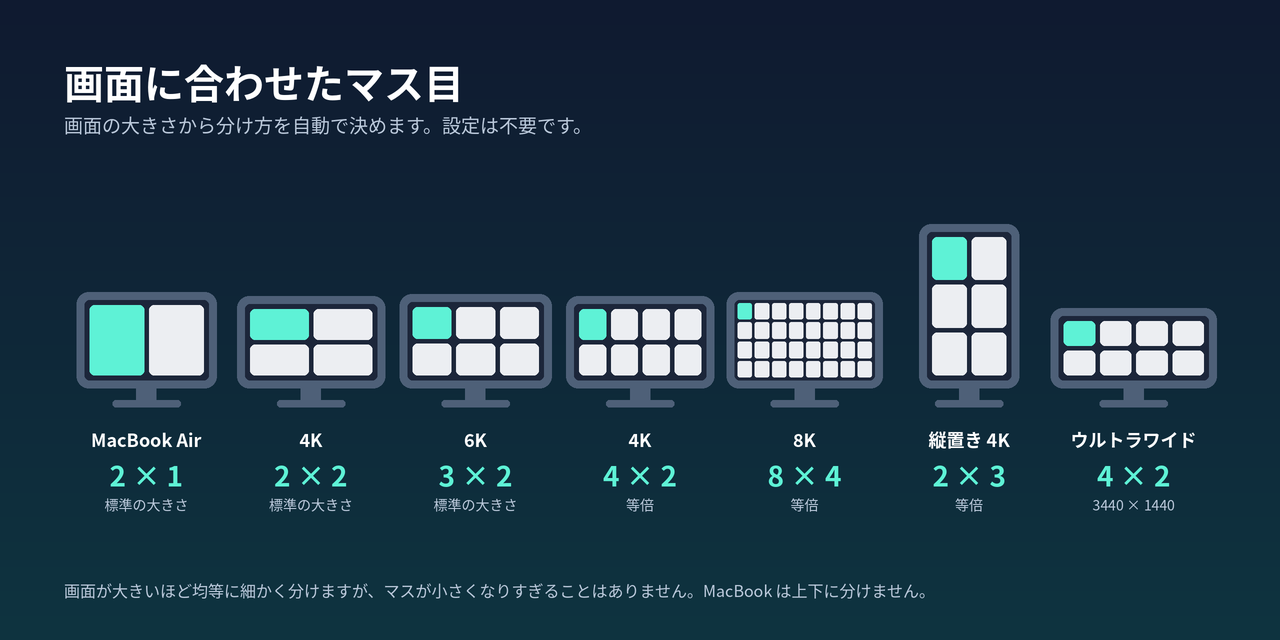
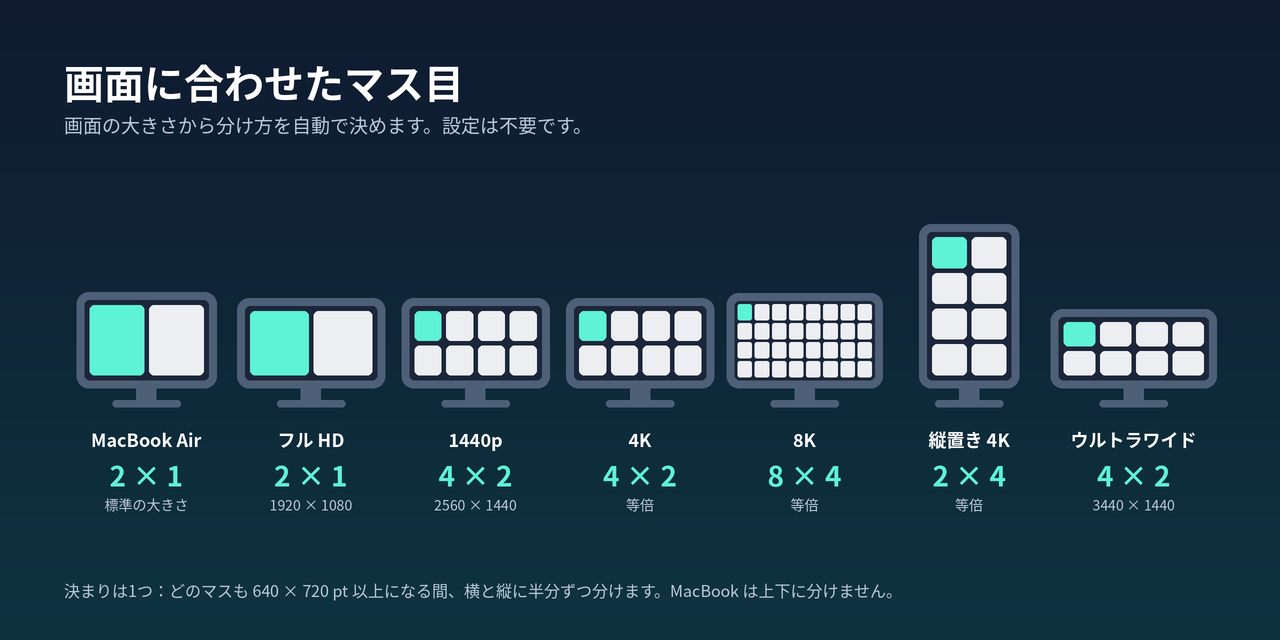
grid: one rule (B) — halve across and down while zones stay at least 640 × 720 pt of the whole screen (columns 1/2/4/8, rows 1/2/4); 3008-pt-wide displays are 4 × 2; README tables, layout art, design notes and changelogs (EN/JA)

diff --git a/Tests/KradoCoreTests/GridPhilosophyTests.swift b/Tests/KradoCoreTests/GridPhilosophyTests.swift
@@ -2,43 +2,71 @@ import CoreGraphics
 import Testing
 @testable import KradoCore
 
-/// README promise: zones are never too small; a typical 4K display tops out at 4 columns;
-/// a MacBook Air's built-in screen is never split top/bottom (at its default size).
+/// Grid constraints, checked against one rule with no special cases:
+/// MacBook Air built-in is never split top/bottom; a 3:2 display at 3008 × 2005 is 4 × 2;
+/// typical-width 4K tops out at 4 columns; zones are never tiny or absurdly tall and thin.
+/// The rule reads the whole screen size, so the menu bar and Dock cannot flip the grid.
 struct GridPhilosophyTests {
+    struct Display: Sendable, CustomStringConvertible {
+        let name: String
+        let width: CGFloat
+        let height: CGFloat
+        let columns: Int
+        let rows: Int
+        var description: String { name }
+    }
+
+    static let displays: [Display] = [
+        Display(name: "MacBook Air 13", width: 1470, height: 956, columns: 2, rows: 1),
+        Display(name: "MacBook Air 13 larger text", width: 1280, height: 832, columns: 2, rows: 1),
+        Display(name: "MacBook Air 15", width: 1710, height: 1112, columns: 2, rows: 1),
+        Display(name: "4K default 1920", width: 1920, height: 1080, columns: 2, rows: 1),
+        Display(name: "2560 × 1440", width: 2560, height: 1440, columns: 4, rows: 2),
+        Display(name: "4K native", width: 3840, height: 2160, columns: 4, rows: 2),
+        Display(name: "5K native", width: 5120, height: 2880, columns: 8, rows: 4),
+        Display(name: "6K default", width: 3008, height: 1692, columns: 4, rows: 2),
+        Display(name: "6K native", width: 6016, height: 3384, columns: 8, rows: 4),
+        Display(name: "3:2 2256", width: 2256, height: 1504, columns: 2, rows: 2),
+        Display(name: "3:2 2560", width: 2560, height: 1707, columns: 4, rows: 2),
+        Display(name: "3:2 3008", width: 3008, height: 2005, columns: 4, rows: 2),
+        Display(name: "3:2 3840", width: 3840, height: 2560, columns: 4, rows: 2),
+        Display(name: "Portrait 4K", width: 1080, height: 1920, columns: 1, rows: 2),
+        Display(name: "Portrait 4K native", width: 2160, height: 3840, columns: 2, rows: 4),
+        Display(name: "Ultrawide 3440", width: 3440, height: 1440, columns: 4, rows: 2),
+        Display(name: "Ultrawide 5120", width: 5120, height: 2160, columns: 8, rows: 2),
+        Display(name: "8K", width: 7680, height: 4320, columns: 8, rows: 4),
+    ]
+
     private func layout(_ w: CGFloat, _ h: CGFloat) -> GridLayout {
         GridPolicy.layout(for: ScreenDescriptor(isBuiltin: false, visibleSize: CGSize(width: w, height: h), name: ""))
     }
 
-    @Test func macBookAirIsNotSplitTopAndBottom() {
-        #expect(layout(1470, 919).rows == 1)   // 13" default, menu bar subtracted
-        #expect(layout(1710, 1079).rows == 1)  // 15" default / 13" "More Space"
+    @Test("Display table", arguments: displays)
+    func table(display: Display) {
+        #expect(layout(display.width, display.height) == GridLayout(columns: display.columns, rows: display.rows))
+        // Built-in or external makes no difference: one rule for every screen.
+        #expect(GridPolicy.layout(for: ScreenDescriptor(isBuiltin: true, visibleSize: CGSize(width: display.width, height: display.height), name: "x"))
+            == GridLayout(columns: display.columns, rows: display.rows))
     }
 
-    @Test func fourKTopsOutAtFourColumnsTwoRows() {
-        #expect(layout(1920, 1050) == GridLayout(columns: 2, rows: 2))  // 4K default (looks like 1920×1080)
-        #expect(layout(2560, 1410) == GridLayout(columns: 2, rows: 2))
-        #expect(layout(3840, 2130) == GridLayout(columns: 4, rows: 2))  // 4K at native size
+    @Test func hardConstraints() {
+        #expect(layout(1470, 956).rows == 1)
+        #expect(layout(1280, 832).rows == 1)
+        #expect(layout(1710, 1112).rows == 1)
+        #expect(layout(1920, 1080).columns <= 4)
+        #expect(layout(2560, 1440).columns <= 4)
+        #expect(layout(3840, 2160).columns <= 4)
+        #expect(layout(3008, 2005) == GridLayout(columns: 4, rows: 2))
     }
 
-    @Test func largerScreensGetMoreEvenZones() {
-        #expect(layout(3008, 1667) == GridLayout(columns: 3, rows: 2))  // Pro Display XDR default
-        #expect(layout(5120, 2855) == GridLayout(columns: 5, rows: 2))  // 5K native
-        #expect(layout(6016, 3359) == GridLayout(columns: 6, rows: 3))  // 6K native
-        #expect(layout(7680, 4295) == GridLayout(columns: 8, rows: 4))  // 8K native
-        #expect(layout(1080, 1890) == GridLayout(columns: 1, rows: 2))  // portrait 4K default
-        #expect(layout(2160, 3810) == GridLayout(columns: 2, rows: 3))  // portrait 4K native
-        #expect(layout(3440, 1410) == GridLayout(columns: 4, rows: 2))  // ultrawide
-        #expect(layout(5120, 1410) == GridLayout(columns: 5, rows: 2))  // super ultrawide
-    }
-
-    @Test func zonesAreNeverTooSmall() {
-        for w in stride(from: CGFloat(400), through: 8000, by: 200) {
-            for h in stride(from: CGFloat(400), through: 8000, by: 200) {
+    @Test func zonesAreNeverTinyOrNeedleThin() {
+        for w in stride(from: CGFloat(800), through: 8000, by: 40) {
+            for h in stride(from: CGFloat(800), through: 8000, by: 40) {
                 let l = layout(w, h)
+                let cw = w / CGFloat(l.columns), ch = h / CGFloat(l.rows)
                 #expect(l.columns <= 8 && l.rows <= 4)
-                // Never too small: every zone stays at least 450 × 450 points.
-                #expect(w / CGFloat(l.columns) >= 450 || l.columns == 1)
-                #expect(h / CGFloat(l.rows) >= 450 || l.rows == 1)
+                #expect(cw >= GridPolicy.minimumCellWidth || l.columns == 1)
+                #expect(ch >= GridPolicy.minimumCellHeight || l.rows == 1)
             }
         }
     }

diff --git a/Tests/KradoCoreTests/PolicyAndCoordinatesTests.swift b/Tests/KradoCoreTests/PolicyAndCoordinatesTests.swift
@@ -6,14 +6,14 @@ import Testing
 @Suite("Display policy and coordinates")
 struct PolicyAndCoordinatesTests {
     @Test("Example display sizes and zone counts", arguments: [
-        PolicyCase(width: 3440, height: 1410, columns: 4, rows: 2),
+        PolicyCase(width: 3440, height: 1410, columns: 4, rows: 1),
         PolicyCase(width: 2560, height: 1050, columns: 4, rows: 1),
-        PolicyCase(width: 3008, height: 1975, columns: 3, rows: 2),
+        PolicyCase(width: 3008, height: 1975, columns: 4, rows: 2),
         PolicyCase(width: 3840, height: 2135, columns: 4, rows: 2),
-        PolicyCase(width: 1920, height: 1055, columns: 2, rows: 2),
-        PolicyCase(width: 2560, height: 1415, columns: 2, rows: 2),
-        PolicyCase(width: 2056, height: 1305, columns: 2, rows: 2),
-        PolicyCase(width: 1800, height: 1137, columns: 2, rows: 2),
+        PolicyCase(width: 1920, height: 1055, columns: 2, rows: 1),
+        PolicyCase(width: 2560, height: 1415, columns: 4, rows: 1),
+        PolicyCase(width: 2056, height: 1305, columns: 2, rows: 1),
+        PolicyCase(width: 1800, height: 1137, columns: 2, rows: 1),
         PolicyCase(width: 1470, height: 924, columns: 2, rows: 1),
         PolicyCase(width: 1280, height: 800, columns: 2, rows: 1),
         PolicyCase(width: 1710, height: 1074, columns: 2, rows: 1),
@@ -26,41 +26,41 @@ struct PolicyAndCoordinatesTests {
     @Test("Ordered policy threshold boundaries", arguments: [
         // Portrait height threshold and orientation precedence (squares are not portrait).
         PolicyCase(width: 800, height: 1199.99, columns: 1, rows: 1),
-        PolicyCase(width: 800, height: 1200, columns: 1, rows: 2),
-        PolicyCase(width: 800, height: 1200.01, columns: 1, rows: 2),
+        PolicyCase(width: 800, height: 1200, columns: 1, rows: 1),
+        PolicyCase(width: 800, height: 1200.01, columns: 1, rows: 1),
         PolicyCase(width: 1800, height: 1800, columns: 2, rows: 2),
         PolicyCase(width: 1800, height: 1800.01, columns: 2, rows: 2),
-        PolicyCase(width: 2800, height: 2800, columns: 3, rows: 2),
-        PolicyCase(width: 2800, height: 2800.01, columns: 3, rows: 2),
-        PolicyCase(width: 3000, height: 4000, columns: 3, rows: 4),
+        PolicyCase(width: 2800, height: 2800, columns: 4, rows: 2),
+        PolicyCase(width: 2800, height: 2800.01, columns: 4, rows: 2),
+        PolicyCase(width: 3000, height: 4000, columns: 4, rows: 4),
         // An ultrawide aspect ratio alone is insufficient below 2400pt wide.
-        PolicyCase(width: 2399.99, height: 1000, columns: 2, rows: 2),
-        PolicyCase(width: 2400, height: 1000, columns: 4, rows: 1),
-        PolicyCase(width: 2400.01, height: 1000, columns: 4, rows: 1),
+        PolicyCase(width: 2399.99, height: 1000, columns: 2, rows: 1),
+        PolicyCase(width: 2400, height: 1000, columns: 2, rows: 1),
+        PolicyCase(width: 2400.01, height: 1000, columns: 2, rows: 1),
         PolicyCase(width: 1000, height: 400, columns: 1, rows: 1),
         // Wide but short screens keep one row so zones never get too short.
         PolicyCase(width: 2200, height: 899.99, columns: 2, rows: 1),
-        PolicyCase(width: 2200, height: 900, columns: 2, rows: 2),
+        PolicyCase(width: 2200, height: 900, columns: 2, rows: 1),
         PolicyCase(width: 2900, height: 899.99, columns: 4, rows: 1),
         // Isolate the aspect-ratio boundary while satisfying the width threshold.
-        PolicyCase(width: 2519.99, height: 1200, columns: 2, rows: 2),
-        PolicyCase(width: 2520, height: 1200, columns: 4, rows: 1),
-        PolicyCase(width: 2520.01, height: 1200, columns: 4, rows: 1),
+        PolicyCase(width: 2519.99, height: 1200, columns: 2, rows: 1),
+        PolicyCase(width: 2520, height: 1200, columns: 2, rows: 1),
+        PolicyCase(width: 2520.01, height: 1200, columns: 2, rows: 1),
         // Ultrawide height controls rows, even above the general large-screen width.
         PolicyCase(width: 3000, height: 1299.99, columns: 4, rows: 1),
-        PolicyCase(width: 3000, height: 1300, columns: 4, rows: 2),
-        PolicyCase(width: 3000, height: 1300.01, columns: 4, rows: 2),
+        PolicyCase(width: 3000, height: 1300, columns: 4, rows: 1),
+        PolicyCase(width: 3000, height: 1300.01, columns: 4, rows: 1),
         PolicyCase(width: 2800, height: 1000, columns: 4, rows: 1),
         // General width boundaries, with non-ultrawide sizes.
-        PolicyCase(width: 2799.99, height: 1600, columns: 3, rows: 2),
-        PolicyCase(width: 2800, height: 1600, columns: 3, rows: 2),
-        PolicyCase(width: 2800.01, height: 1600, columns: 3, rows: 2),
+        PolicyCase(width: 2799.99, height: 1600, columns: 4, rows: 2),
+        PolicyCase(width: 2800, height: 1600, columns: 4, rows: 2),
+        PolicyCase(width: 2800.01, height: 1600, columns: 4, rows: 2),
         PolicyCase(width: 1799.99, height: 1000, columns: 2, rows: 1),
-        PolicyCase(width: 1800, height: 1000, columns: 2, rows: 2),
-        PolicyCase(width: 1800.01, height: 1000, columns: 2, rows: 2),
+        PolicyCase(width: 1800, height: 1000, columns: 2, rows: 1),
+        PolicyCase(width: 1800.01, height: 1000, columns: 2, rows: 1),
         PolicyCase(width: 1199.99, height: 800, columns: 1, rows: 1),
-        PolicyCase(width: 1200, height: 800, columns: 2, rows: 1),
-        PolicyCase(width: 1200.01, height: 800, columns: 2, rows: 1),
+        PolicyCase(width: 1200, height: 800, columns: 1, rows: 1),
+        PolicyCase(width: 1200.01, height: 800, columns: 1, rows: 1),
     ])
     func boundaries(test: PolicyCase) { checkPolicy(test) }
 

diff --git a/Sources/KradoCore/Grid.swift b/Sources/KradoCore/Grid.swift
@@ -32,43 +32,26 @@ public struct ScreenDescriptor: Equatable, Sendable {
     }
 }
 
-/// Zones are as many as fit evenly while each stays comfortably large:
-/// columns = floor(W / 900), rows = floor(H / 1000), never more than 8 × 4.
-/// Any screen at least 1200pt wide gets 2 columns; 2 rows need 900pt height and, in landscape, 1800pt width
-/// (so a MacBook Air is 2 × 1, a 1080p-class screen 2 × 2, 4K at native size 4 × 2, 8K 8 × 4).
-/// Ultrawide screens keep 4 columns and add a second row only from 1300pt tall.
+/// Rule B — one law for every screen: keep halving the screen, across and down,
+/// while each zone stays at least 640 pt wide and 720 pt tall.
+/// columns = the largest of 1, 2, 4, 8 with W / columns ≥ 640; rows = the largest of 1, 2, 4 with H / rows ≥ 720.
+/// W × H is the whole screen (menu bar and Dock included), so showing or hiding them never changes the grid.
 public enum GridPolicy {
-    public static let minimumCellWidth: CGFloat = 900
-    public static let minimumCellHeight: CGFloat = 1000
-    public static let twoColumnMinimumWidth: CGFloat = 1200
-    /// Below this height a top/bottom split would make zones too short (< 450 pt).
-    public static let twoRowMinimumHeight: CGFloat = 900
-    public static let twoRowMinimumWidth: CGFloat = 1800
-    public static let portraitSplitMinimumHeight: CGFloat = 1200
-    public static let ultrawideMinimumAspectRatio: CGFloat = 2.1
-    public static let ultrawideMinimumWidth: CGFloat = 2400
-    public static let ultrawideTwoRowMinimumHeight: CGFloat = 1300
+    public static let minimumCellWidth: CGFloat = 640
+    public static let minimumCellHeight: CGFloat = 720
     public static let maximumColumns = 8
     public static let maximumRows = 4
 
+    /// `screen.visibleSize` carries the whole screen size here (see Overlay), not the visible frame.
     public static func layout(for screen: ScreenDescriptor) -> GridLayout {
         let width = screen.visibleSize.width
         let height = screen.visibleSize.height
         guard width > 0, height > 0 else { return GridLayout(columns: 1, rows: 1) }
-        let fitColumns = Int((width / minimumCellWidth).rounded(.down))
-        let fitRows = Int((height / minimumCellHeight).rounded(.down))
-        let ultrawide = width / height >= ultrawideMinimumAspectRatio && width >= ultrawideMinimumWidth
-        var columns = width >= twoColumnMinimumWidth ? max(2, fitColumns) : 1
-        // Laptop-class landscape screens (narrower than 1800pt) keep one row: halves would be too short to work in.
-        let canSplitRows = height > width
-            ? height >= portraitSplitMinimumHeight
-            : height >= twoRowMinimumHeight && width >= twoRowMinimumWidth
-        var rows = canSplitRows ? max(2, fitRows) : 1
-        if ultrawide {
-            columns = max(4, fitColumns)
-            rows = height >= ultrawideTwoRowMinimumHeight ? max(2, fitRows) : 1
-        }
-        return GridLayout(columns: min(columns, maximumColumns), rows: min(rows, maximumRows))
+        var columns = 1
+        while columns < maximumColumns && width / CGFloat(columns * 2) >= minimumCellWidth { columns *= 2 }
+        var rows = 1
+        while rows < maximumRows && height / CGFloat(rows * 2) >= minimumCellHeight { rows *= 2 }
+        return GridLayout(columns: columns, rows: rows)
     }
 }
 

diff --git a/Sources/Krado/Overlay.swift b/Sources/Krado/Overlay.swift
@@ -75,7 +75,8 @@ final class ScreenGrid {
         name = screen.localizedName
         let descriptor = ScreenDescriptor(
             isBuiltin: CGDisplayIsBuiltin(displayID) != 0,
-            visibleSize: screen.visibleFrame.size, name: screen.localizedName
+            // The grid rule reads the whole screen size so the menu bar and Dock never change it.
+            visibleSize: screen.frame.size, name: screen.localizedName
         )
         geometry = GridGeometry(
             workArea: flipY(screen.visibleFrame, mainScreenHeight: mainScreenHeight),

diff --git a/scripts/readme-art/layouts.py b/scripts/readme-art/layouts.py
@@ -11,13 +11,13 @@ def F(p,s,w=None):
     return f
 TEXT={
  "en":dict(title="A grid that fits each screen", sub="krado picks the split from the screen's size. No setup.",
-   items=[("MacBook Air","2 × 1","Default size"),("4K","2 × 2","Default size"),("6K","3 × 2","Default size"),
-          ("4K","4 × 2","Native size"),("8K","8 × 4","Native size"),("Portrait 4K","2 × 3","Native size"),("Ultrawide","4 × 2","3440 × 1440")],
-   foot="Zones stay at least about 900 × 1000 pt where possible, never tiny. MacBooks are never split top and bottom.", font=(INTER,INTER)),
+   items=[("MacBook Air","2 × 1","Default size"),("Full HD","2 × 1","1920 × 1080"),("1440p","4 × 2","2560 × 1440"),
+          ("4K","4 × 2","Native size"),("8K","8 × 4","Native size"),("Portrait 4K","2 × 4","Native size"),("Ultrawide","4 × 2","3440 × 1440")],
+   foot="One rule: halve across and down while every zone stays at least 640 × 720 pt. MacBooks are never split top and bottom.", font=(INTER,INTER)),
  "ja":dict(title="画面に合わせたマス目", sub="画面の大きさから分け方を自動で決めます。設定は不要です。",
-   items=[("MacBook Air","2 × 1","標準の大きさ"),("4K","2 × 2","標準の大きさ"),("6K","3 × 2","標準の大きさ"),
-          ("4K","4 × 2","等倍"),("8K","8 × 4","等倍"),("縦置き 4K","2 × 3","等倍"),("ウルトラワイド","4 × 2","3440 × 1440")],
-   foot="画面が大きいほど均等に細かく分けますが、マスが小さくなりすぎることはありません。MacBook は上下に分けません。", font=(CJKB,CJK)),
+   items=[("MacBook Air","2 × 1","標準の大きさ"),("フル HD","2 × 1","1920 × 1080"),("1440p","4 × 2","2560 × 1440"),
+          ("4K","4 × 2","等倍"),("8K","8 × 4","等倍"),("縦置き 4K","2 × 4","等倍"),("ウルトラワイド","4 × 2","3440 × 1440")],
+   foot="決まりは1つ：どのマスも 640 × 720 pt 以上になる間、横と縦に半分ずつ分けます。MacBook は上下に分けません。", font=(CJKB,CJK)),
 }
 def rr(d,r,rad,fill,outline=None,width=0): d.rounded_rectangle([v*S for v in r],radius=rad*S,fill=fill,outline=outline,width=width*S)
 for lang,t in TEXT.items():
@@ -27,7 +27,7 @@ for lang,t in TEXT.items():
     bold,reg=t["font"]
     d.text((64*S,52*S),t["title"],font=F(bold,40,700),fill=(255,255,255))
     d.text((64*S,110*S),t["sub"],font=F(reg,19,450),fill=(186,200,218))
-    specs=[(2,1,(124,80)),(2,2,(132,76)),(3,2,(136,78)),(4,2,(132,76)),(8,4,(140,80)),(2,3,(84,148)),(4,2,(150,64))]
+    specs=[(2,1,(124,80)),(2,1,(132,74)),(4,2,(132,74)),(4,2,(132,74)),(8,4,(140,79)),(2,4,(84,148)),(4,2,(150,63))]
     slot=(W-128)/7; base=380
     for i,((c,r,(sw,sh)),(name,grid,ex)) in enumerate(zip(specs,t["items"])):
         cx=64+slot*i+slot/2

diff --git a/docs/design.md b/docs/design.md
@@ -16,27 +16,14 @@ Release bundling passes `-debug-info-format none`: no dSYM is needed for v0.1 di
 
 ## Display policy and geometry
 
-Policy input is `ScreenDescriptor(isBuiltin, visibleSize, name)`; both name and `isBuiltin` are informational. The same policy applies to built-in and external screens. Rules are evaluated in order, using the width **W** and height **H** of `NSScreen.visibleFrame` in **points**, not hardware pixels:
+Policy input is `ScreenDescriptor(isBuiltin, visibleSize, name)`; both name and `isBuiltin` are informational, and the same policy applies to built-in and external screens. `visibleSize` carries the **whole** screen size, `NSScreen.frame`, in **points** (not hardware pixels), so showing or hiding the Dock or menu bar never changes the grid. The zones themselves still fill the visible work area (`NSScreen.visibleFrame`, excluding the Dock and menu bar on any edge).
 
-Columns = floor(W / 900) and rows = floor(H / 1000), capped at 8 × 4, so every zone stays large and the screen is divided evenly:
+One rule, no special cases: keep halving across and down while each zone stays at least 640 pt wide and 720 pt tall.
 
-- W ≥ 1200pt → at least 2 columns; otherwise 1.
-- Two or more rows need, in portrait, H ≥ 1200pt; in landscape, H ≥ 900pt and W ≥ 1800pt (laptop-class screens such as a MacBook Air stay one row).
-- Ultrawide (W/H ≥ 2.1 and W ≥ 2400pt): at least 4 columns; rows only from H ≥ 1300pt.
+- columns = the largest of 1, 2, 4, 8 with W / columns ≥ 640
+- rows = the largest of 1, 2, 4 with H / rows ≥ 720
 
-Examples: MacBook Air 2 × 1, 1080p/1440p-class 2 × 2, 4K at native size 4 × 2, 5K native 5 × 2, 6K native 6 × 3, 8K native 8 × 4, portrait 4K 1 × 2 (native 2 × 3), 3440 × 1440 ultrawide 4 × 2. Constants live in `GridPolicy`.
-
-The aim is to keep zones roughly at least 640pt wide and about 500pt tall so typical app windows fit. Mid-size screens get 2×2 rather than three narrow columns. Small landscape screens get full-height left/right halves. Below about 1200pt, even halves become too narrow, so a single zone fills the visible work area. Portrait screens split only with at least 1200pt of height; ultrawides use two rows only with at least 1300pt. These are sizing heuristics, not enforced minimum dimensions: the 1200pt width threshold permits 600pt halves, and unusual work-area aspect ratios or app size constraints may still produce smaller usable windows.
-
-Examples, all using visible points:
-
-- Large: a 3:2 4K-class display at **3008×1975 → 4×2 = 8 zones**; 3840×2135 also gets 4×2.
-- Ultrawide: 3440×1410 → 4×2; 2560×1050 → 4×1.
-- Mid-size: 1920×1055, 2560×1415, 16-inch MacBook Pro at 2056×1305, and 14-inch MacBook Pro at 1800×1137 → 2×2.
-- Small: a 13-inch MacBook Air at **1470×924 → 2×1 = 2 zones**; 1280×800, 1710×1074, 1512×950, and 1728×1085 also get 2×1.
-- Tiny: 1024×740 → 1×1. Portrait 800×1100 is also unsplit, while 800×1200 gets stacked halves.
-
-A display's nominal hardware resolution does not directly drive policy. All work areas exclude the Dock and menu bar, including a Dock placed on other edges.
+Examples: MacBook Air 13 (1470 × 956) and 15 (1710 × 1112) → 2 × 1; 1280 × 832 → 2 × 1; 1920 × 1080 → 2 × 1; 2560 × 1440 → 4 × 2; 3008 × 1692 and 3008 × 2005 → 4 × 2; 4K native 3840 × 2160 → 4 × 2; 5K, 6K and 8K native → 8 × 4; portrait 1080 × 1920 → 1 × 2, portrait 4K native → 2 × 4; ultrawide 2560 × 1080 → 4 × 1, 3440 × 1440 → 4 × 2, 5120 × 1440 → 8 × 2; narrower than 1280 pt → 1 column. Constants live in `GridPolicy`; `GridPhilosophyTests` holds the display table.
 
 `GridSpan` has nonempty, half-open column and row ranges; row 0 is the top. `GridGeometry` stores absolute x/y edge arrays. Each **internal** edge is independently rounded to the nearest physical pixel with the display's backing scale. The exact outer edges stay fixed to the visible frame. Adjacent cells share the same edges, their dimensions sum to the full work area, and errors do not accumulate. Outer edges provided at a fractional pixel are preserved rather than expanding/shrinking the work area. Spans use those same edges to calculate frames. `KradoDefaults.gap=0`; a nonzero gap insets the resulting span, not each cell inside a combined span.
 

diff --git a/README.ja.md b/README.ja.md
@@ -12,20 +12,21 @@
 
 ## 画面に合わせたマス目
 
-Microsoft PowerToys の FancyZones に着想を得ています。krado はマス目を自動で作り、画面に対して小さすぎるマスにはしません。たとえば一般的な 4K ディスプレイでも横は最大 4 列です。MacBook Air の内蔵画面は、上下に分けると高さが足りないので、上下には分けません。
+Microsoft PowerToys の FancyZones に着想を得ています。krado はマス目を自動で作ります。決まりは1つだけで、どのマスも幅 640 pt・高さ 720 pt 以上になる間、画面を横と縦に半分ずつ分けていきます。そのため列は 1・2・4・8、段は 1・2・4 のどれかです。MacBook の内蔵画面は上下に分けず、一般的な 4K ディスプレイでも横は最大 4 列です。
 
-<strong>システム設定 → ディスプレイ</strong>で選んでいる画面の大きさから、分け方を決めます。内蔵の画面も外付けの画面も、同じ決まりです。
+<strong>システム設定 → ディスプレイ</strong>で選んでいる画面全体の大きさで決めるので、Dock やメニューバーを出し入れしてもマス目は変わりません。内蔵の画面も外付けの画面も、同じ決まりです。
 
 | 画面 | マス目 | たとえば |
 | --- | --- | --- |
 | MacBook | <strong>2 × 1</strong> | 標準の大きさで使っている MacBook Air / Pro の画面 |
-| 一般的なモニター | <strong>2 × 2</strong> | 1920 × 1080、2560 × 1440、標準の大きさで使う 4K・5K |
-| 大きい画面 | <strong>3 × 2</strong>〜<strong>8 × 4</strong> | 等倍で使う高解像度ディスプレイ：4K → 4 × 2、6K → 6 × 3、8K → 8 × 4 |
-| とても小さい | <strong>1 × 1</strong> | 幅の狭い画面や低解像度の画面 |
-| 縦置き | <strong>1 × 2</strong> 以上 | 縦向きにしたモニター（高さが足りない縦置きは 1 × 1） |
-| ウルトラワイド | <strong>4 × 1</strong> 以上 | とても横長のモニター。高さが十分なら2段 |
+| フル HD クラス | <strong>2 × 1</strong> | 1920 × 1080、標準の大きさで使う 4K |
+| 1440p クラス | <strong>4 × 2</strong> | 2560 × 1440、標準の大きさで使う 5K・6K、等倍で使う 4K |
+| とても高い解像度 | <strong>8 × 4</strong> | 等倍で使う 5K・6K・8K |
+| 縦置き | <strong>1 × 2</strong> または <strong>2 × 4</strong> | 1080 × 1920、縦向きにして等倍で使う 4K |
+| ウルトラワイド | <strong>4 × 1</strong>〜<strong>8 × 2</strong> | 2560 × 1080 → 4 × 1、3440 × 1440 → 4 × 2、5120 × 1440 → 8 × 2 |
+| 小さい画面 | <strong>1 × 1</strong> | 幅が 1280 pt より狭い横長の画面 |
 
-![MacBook Air・4K・6K・等倍の 4K と 8K・縦置き 4K・ウルトラワイドのマス目](docs/assets/layouts.ja.png)
+![MacBook Air・1920 × 1080・2560 × 1440・等倍の 4K と 8K・縦置き 4K・ウルトラワイドのマス目](docs/assets/layouts.ja.png)
 
 ## 使い方
 

diff --git a/README.md b/README.md
@@ -12,20 +12,21 @@ Free and open source (MIT License).
 
 ## A grid that fits each screen
 
-Inspired by Microsoft PowerToys FancyZones, krado builds the grid for you, and never makes zones too small for the screen. A typical 4K display tops out at 4 columns, and a MacBook Air's built-in screen is never split top and bottom, because each half would be too short to work in.
+Inspired by Microsoft PowerToys FancyZones, krado builds the grid for you with one rule: it keeps halving the screen, across and down, while every zone stays at least 640 pt wide and 720 pt tall. So columns are 1, 2, 4 or 8 and rows are 1, 2 or 4. A MacBook's built-in screen is never split top and bottom, and a typical 4K display tops out at 4 columns.
 
-krado chooses the split from the screen's size, as set in **System Settings → Displays**. Every screen, built-in or external, follows the same rules.
+The size is the whole screen as set in **System Settings → Displays**, so showing or hiding the Dock or menu bar never changes the grid. Built-in and external screens follow the same rule.
 
 | Screen | Grid | For example |
 | --- | --- | --- |
 | MacBook | **2 × 1** | MacBook Air / Pro screens at their default size |
-| Typical monitor | **2 × 2** | 1920 × 1080, 2560 × 1440, or a 4K/5K display at its default size |
-| Large | **3 × 2** to **8 × 4** | High-resolution displays at native size: 4K → 4 × 2, 6K → 6 × 3, 8K → 8 × 4 |
-| Very small | **1 × 1** | Narrow or low-resolution screens |
-| Portrait | **1 × 2** or more | A monitor turned vertical (short portrait screens stay 1 × 1) |
-| Ultrawide | **4 × 1** or more | Very wide monitors, with two rows when tall enough |
+| Full HD class | **2 × 1** | 1920 × 1080, or a 4K display at its default size |
+| 1440p class | **4 × 2** | 2560 × 1440, 5K and 6K displays at their default size, 4K at native size |
+| Very high resolution | **8 × 4** | 5K, 6K and 8K at native size |
+| Portrait | **1 × 2** or **2 × 4** | 1080 × 1920; a 4K display turned vertical at native size |
+| Ultrawide | **4 × 1** to **8 × 2** | 2560 × 1080 → 4 × 1, 3440 × 1440 → 4 × 2, 5120 × 1440 → 8 × 2 |
+| Small | **1 × 1** | Landscape screens narrower than 1280 pt |
 
-![Grids for a MacBook Air, 4K, 6K, 4K and 8K at native size, a portrait 4K and an ultrawide screen](docs/assets/layouts.png)
+![Grids for a MacBook Air, 1920 × 1080, 2560 × 1440, 4K and 8K at native size, a portrait 4K and an ultrawide screen](docs/assets/layouts.png)
 
 ## Use it
 

diff --git a/CHANGELOG.ja.md b/CHANGELOG.ja.md
@@ -10,6 +10,10 @@ krado の主な変更を記録します。
 
 ## [Unreleased]
 
+### 変更
+
+- マス目の決まりを、例外のない1つの決まりにしました。どのマスも幅 640 pt・高さ 720 pt 以上になる間、画面を横と縦に半分ずつ分けます（列は 1・2・4・8、段は 1・2・4）。画面全体の大きさで決めるので、Dock やメニューバーを出し入れしてもマス目が変わらなくなりました。たとえば 1920 × 1080 は 2 × 1 に、2560 × 1440 と幅 3008 pt の画面（標準の大きさの 6K を含む）は 2 × 2 や 3 × 2 ではなく 4 × 2 に、等倍の 6K は 8 × 4 になります。
+
 ### 修正
 
 - DMG を開いたときのインストール画面で、Finder のパスバーやステータスバーを表示していても、下が切れたりスクロールバーが出たりしないようにしました。「krado」と「Applications」の名前も、拡張子を表示している場合を含めて、明るい帯の上にきれいに収まるようにしました。

diff --git a/CHANGELOG.md b/CHANGELOG.md
@@ -8,6 +8,10 @@ and this project follows [Semantic Versioning](https://semver.org/spec/v2.0.0.ht
 
 ## [Unreleased]
 
+### Changed
+
+- The grid now follows one rule with no special cases: krado keeps halving the screen, across and down, while every zone stays at least 640 pt wide and 720 pt tall (columns 1, 2, 4 or 8; rows 1, 2 or 4). It reads the whole screen size, so showing or hiding the Dock or menu bar no longer changes the grid. For example, 1920 × 1080 is now 2 × 1, 2560 × 1440 and 3008-pt-wide displays (including 6K at its default size) are now 4 × 2 instead of 2 × 2 or 3 × 2, and 6K at native size is 8 × 4.
+
 ### Fixed
 
 - The install window that opens with the DMG is no longer cut off at the bottom and no longer shows a scroll bar when Finder's Path Bar or Status Bar is turned on, and the "krado" and "Applications" labels now sit cleanly on their light bands (also with filename extensions shown).
